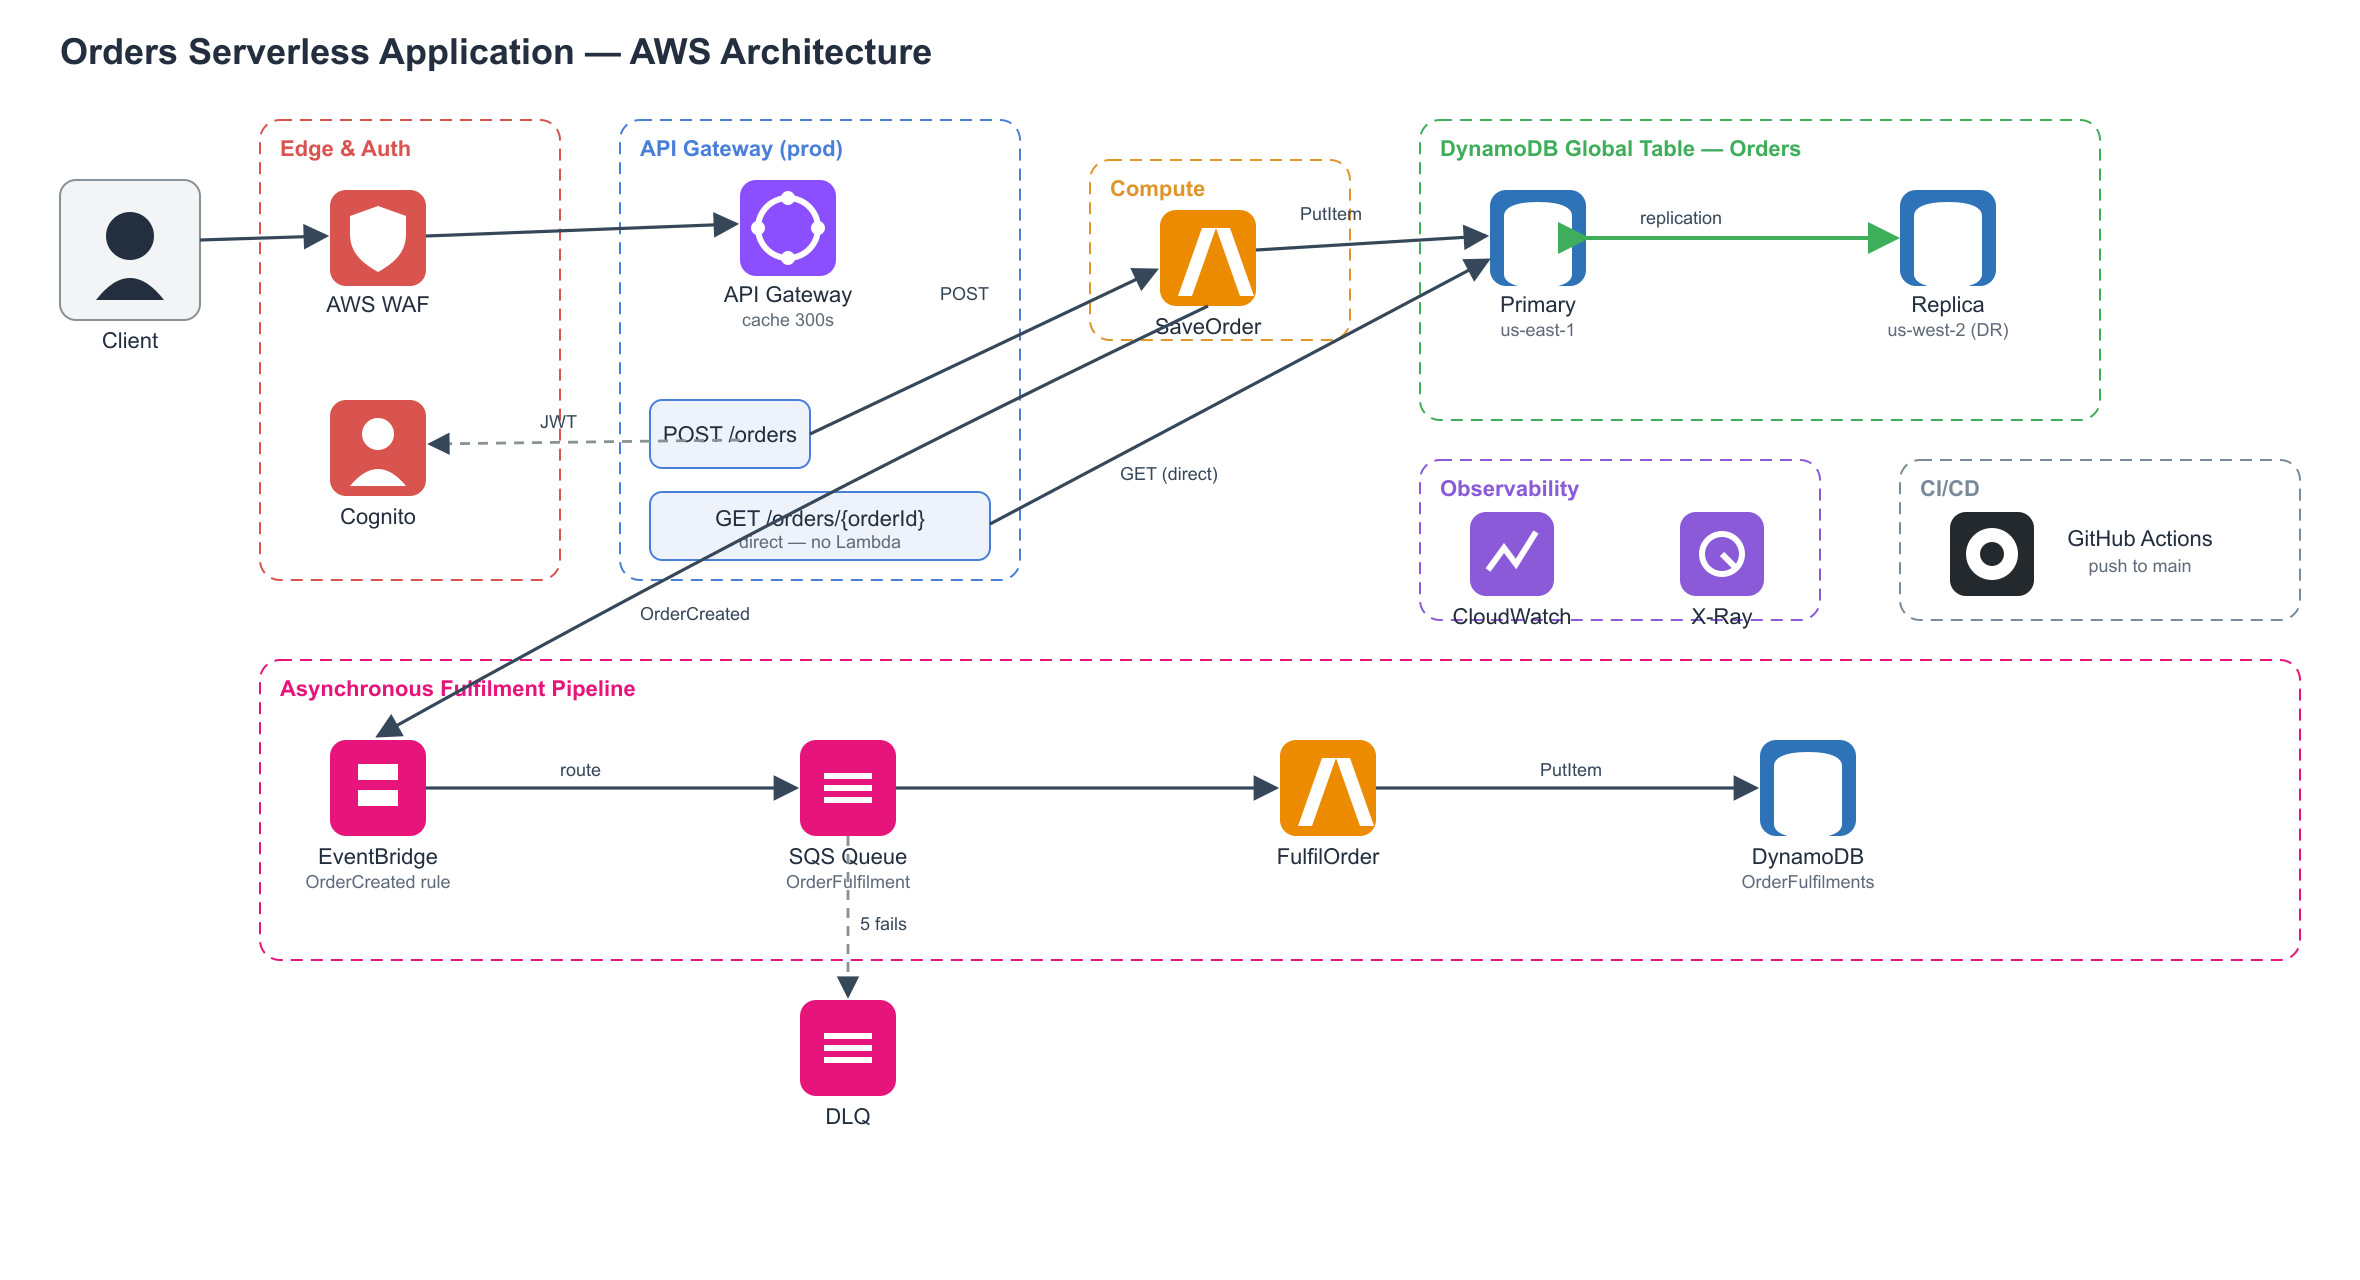
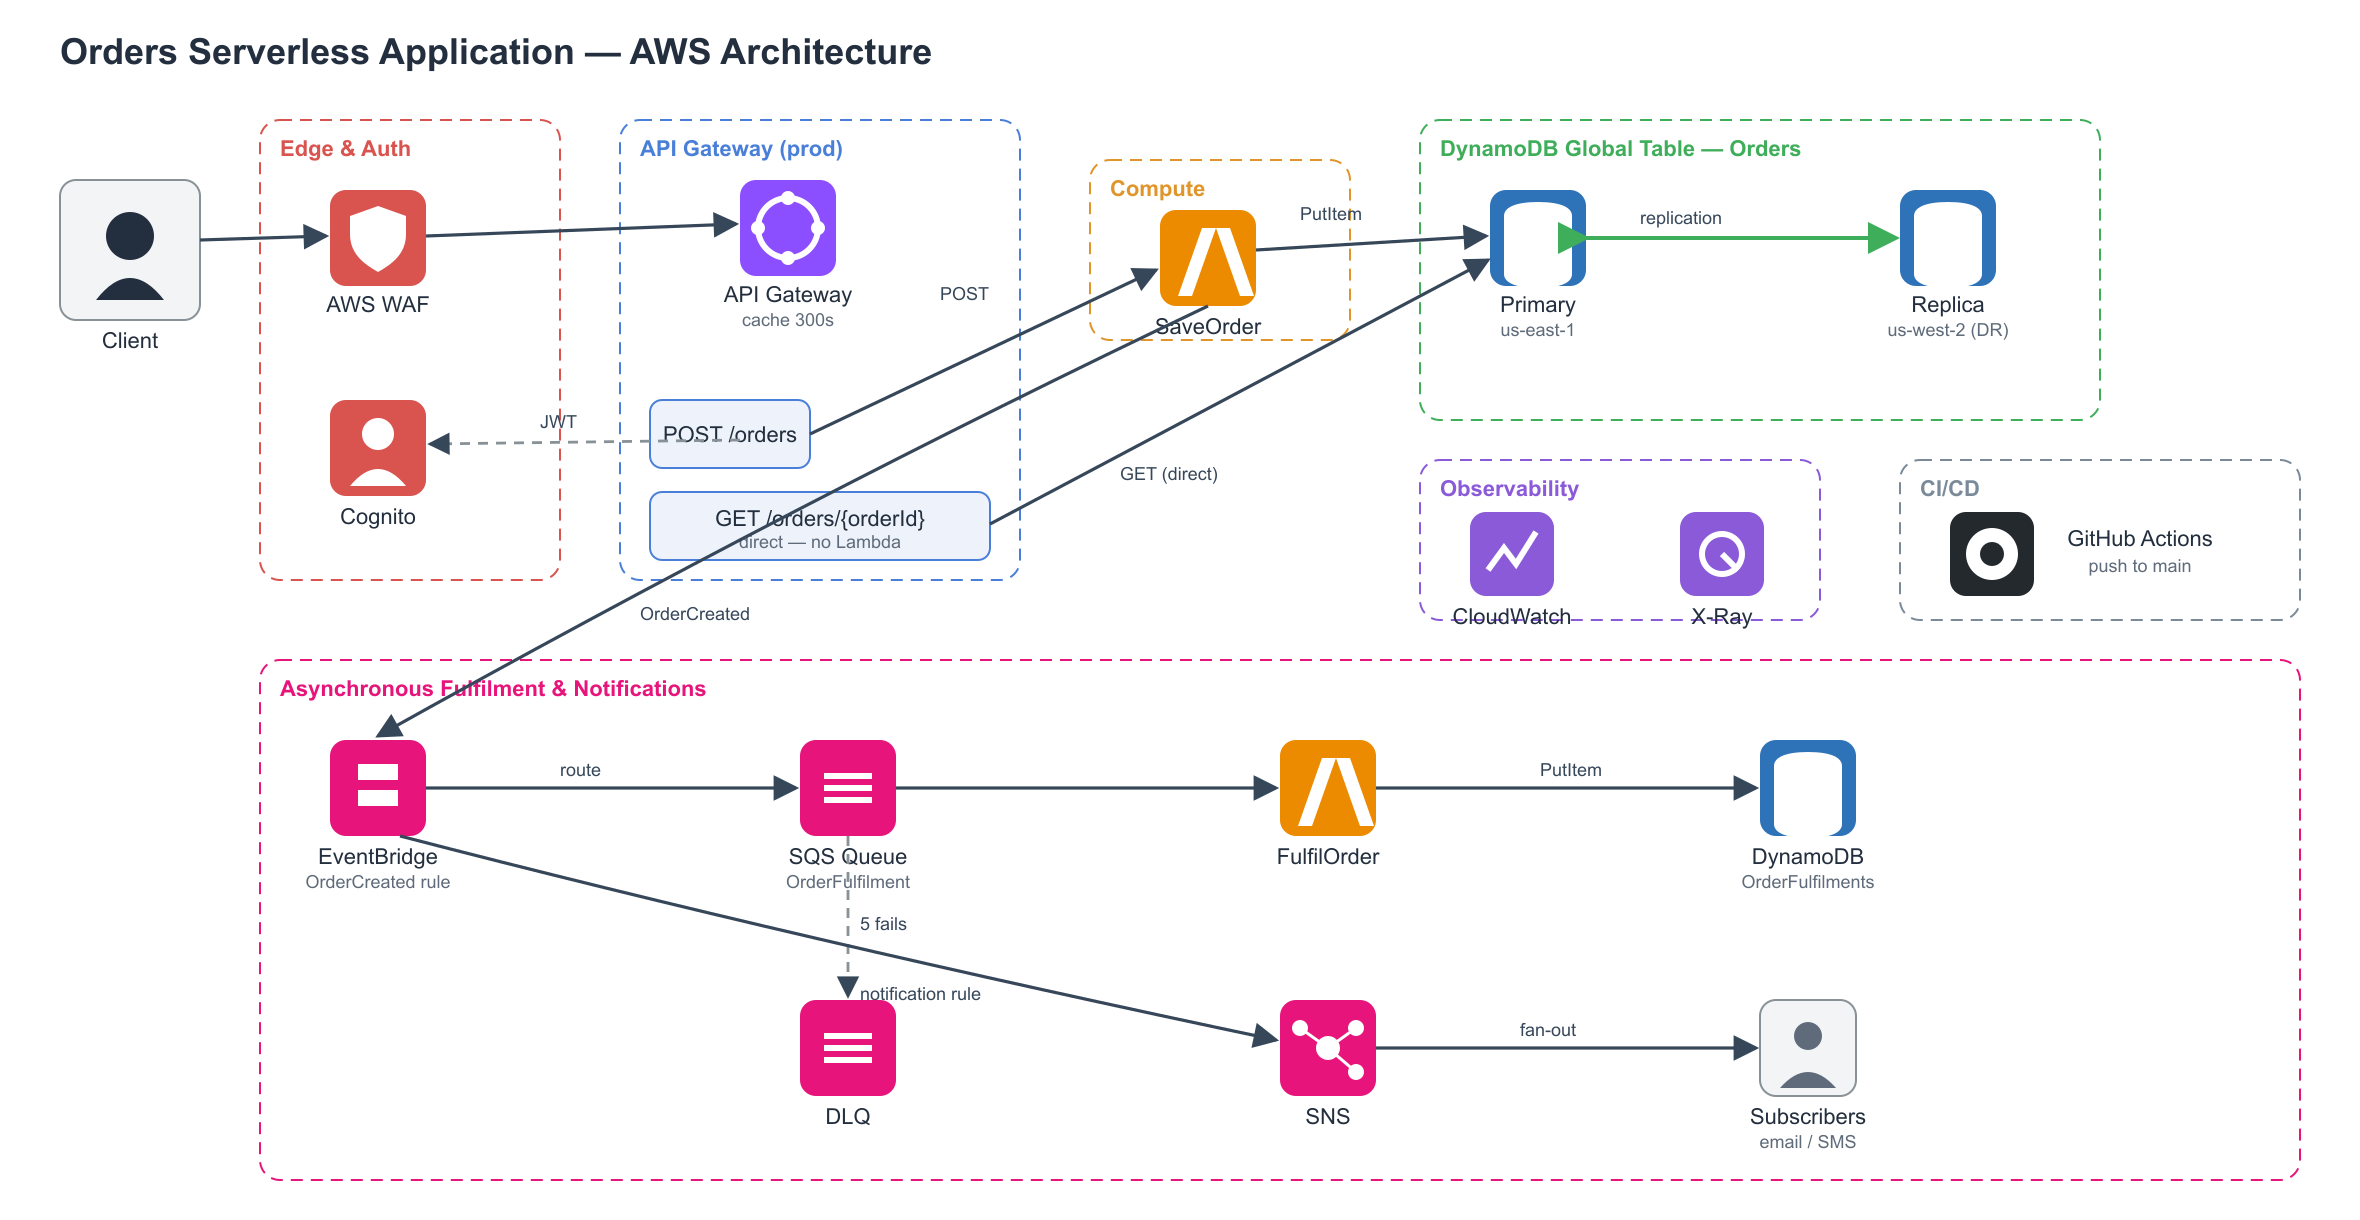
Add SNS notifications to diagrams and docs

diff --git a/docs/README.md b/docs/README.md
@@ -31,6 +31,7 @@ infrastructure-as-code with AWS SAM and deployed automatically via GitHub Action
 | Queue | **SQS** (`OrderFulfilmentQueue` + DLQ) | Buffers `OrderCreated` events for async processing; failed messages go to a dead-letter queue after 5 attempts. |
 | Async compute | **Lambda `FulfilOrder`** (Node.js 24.x) | Consumes the queue and records fulfilment, with partial batch failure reporting. |
 | Async data | **DynamoDB table** (`OrderFulfilments`) | Stores fulfilment records keyed by `orderId`. |
+| Notifications | **SNS topic** (`OrderNotifications`) | A second `OrderCreated` rule publishes to this topic, which fans out to subscribers (email, SMS, HTTP). |
 | Observability | **CloudWatch Dashboard** + **X-Ray** | API and Lambda metrics plus distributed traces. |
 | CI/CD | **GitHub Actions** | Builds and deploys on every push to `main`. |
 
@@ -64,22 +65,26 @@ After an order is saved, processing continues asynchronously so the API responds
 immediately while fulfilment happens in the background:
 
 ```
-SaveOrder → EventBridge (OrdersEventBus) → OrderCreated rule → SQS → FulfilOrder → OrderFulfilments table
-                                                                 │
-                                                                 └─(after 5 failures)→ Dead-letter queue
+                                        ┌─ fulfilment rule → SQS → FulfilOrder → OrderFulfilments table
+                                        │                     │
+SaveOrder → EventBridge (OrdersEventBus)┤                     └─(after 5 failures)→ Dead-letter queue
+                                        │
+                                        └─ notification rule → SNS (OrderNotifications) → subscribers
 ```
 
 1. `SaveOrder` publishes an `OrderCreated` event (`source: orders.service`,
    `detail-type: OrderCreated`) to the custom bus.
-2. The `OrderCreated` rule matches that pattern and routes the event to
-   `OrderFulfilmentQueue` (SQS).
+2. Two rules match that same pattern independently:
+   - The **fulfilment rule** routes the event to `OrderFulfilmentQueue` (SQS).
+   - The **notification rule** publishes the event to the `OrderNotifications`
+     SNS topic, which fans out to subscribers (email, SMS, HTTP endpoints).
 3. `FulfilOrder` is triggered by the queue (batch size 10), unwraps the event,
    and writes a fulfilment record to the `OrderFulfilments` table.
 4. Messages that fail processing five times are moved to the dead-letter queue
    for inspection, so a single bad message never blocks the pipeline.
 
-This decouples the two functions: `SaveOrder` stays fast and user-facing, while
-`FulfilOrder` processes work reliably off the queue.
+This decouples the components: `SaveOrder` stays fast and user-facing, while
+fulfilment and notifications happen independently off the event bus.
 
 ## Data layer — Global Table
 
